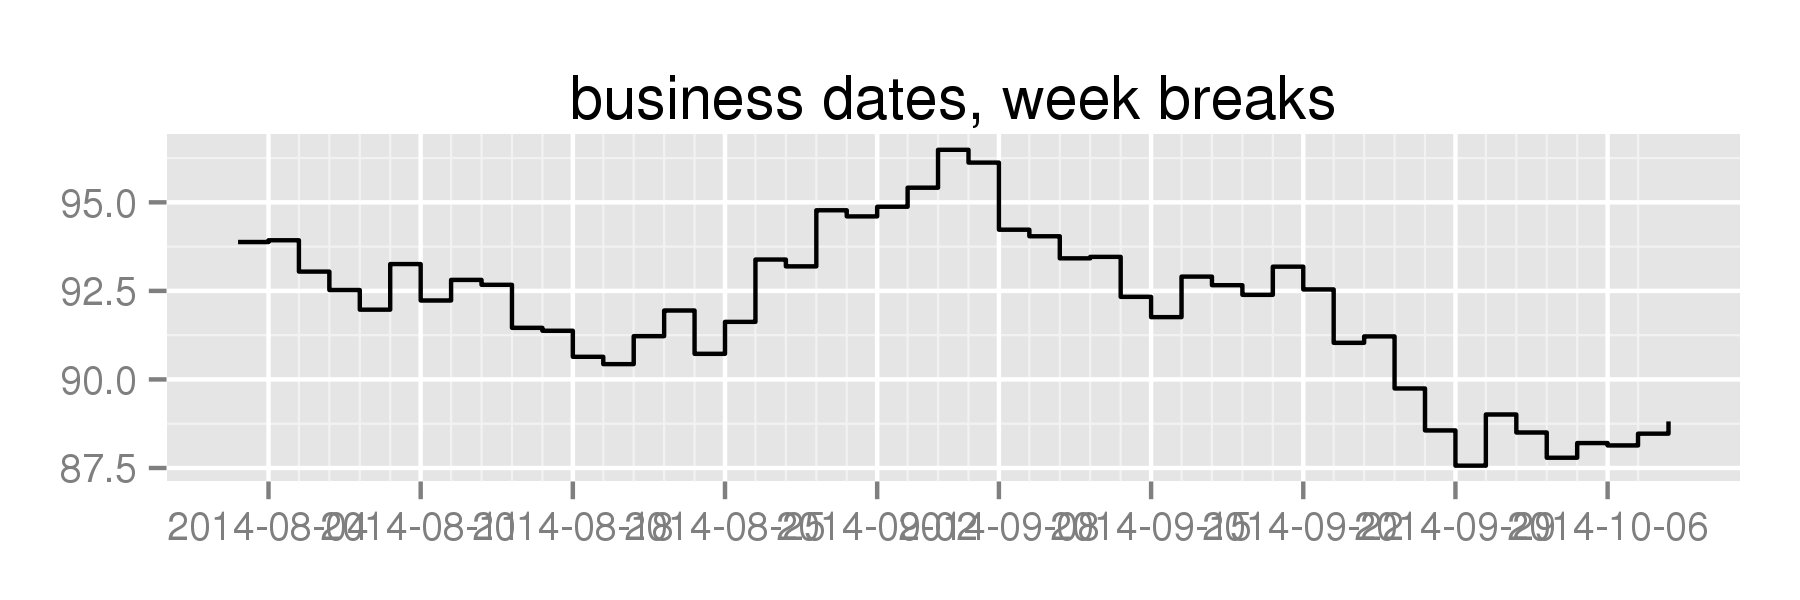
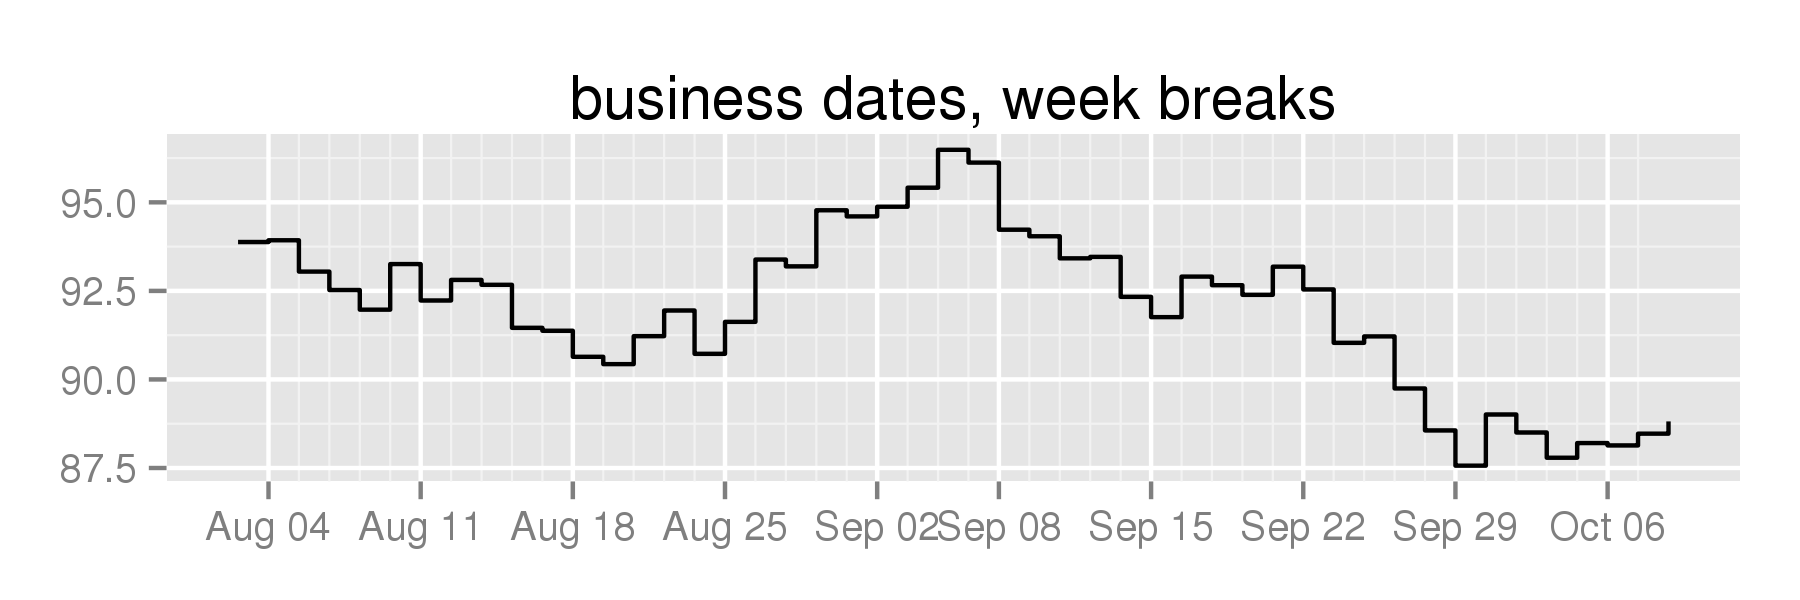
update docs to fix overlapping date labels in sample chart

Changed region(s): [[0.0933, 0.84, 0.9644, 0.9]]

diff --git a/README.md b/README.md
@@ -49,10 +49,10 @@ Removes weekends and holidays from the graph:
 Because we're making a wide chart, we can tell it to use more breaks:
 
 ```
-plot + scale_x_bd(business.dates=nyse, max.major.breaks=10) + 
+plot + scale_x_bd(business.dates=nyse, max.major.breaks=10, labels=date_format('%b %d')) + 
   ggtitle('business dates, week breaks')
 ```
 
-Given the max, it determines it can put major breaks on the first trading day of the week, and minor breaks every day:
+Given that max, it determines it can put major breaks on the first trading day of the week, and minor breaks every day:
 
 <img src='man/figures/business.week.PNG'>
